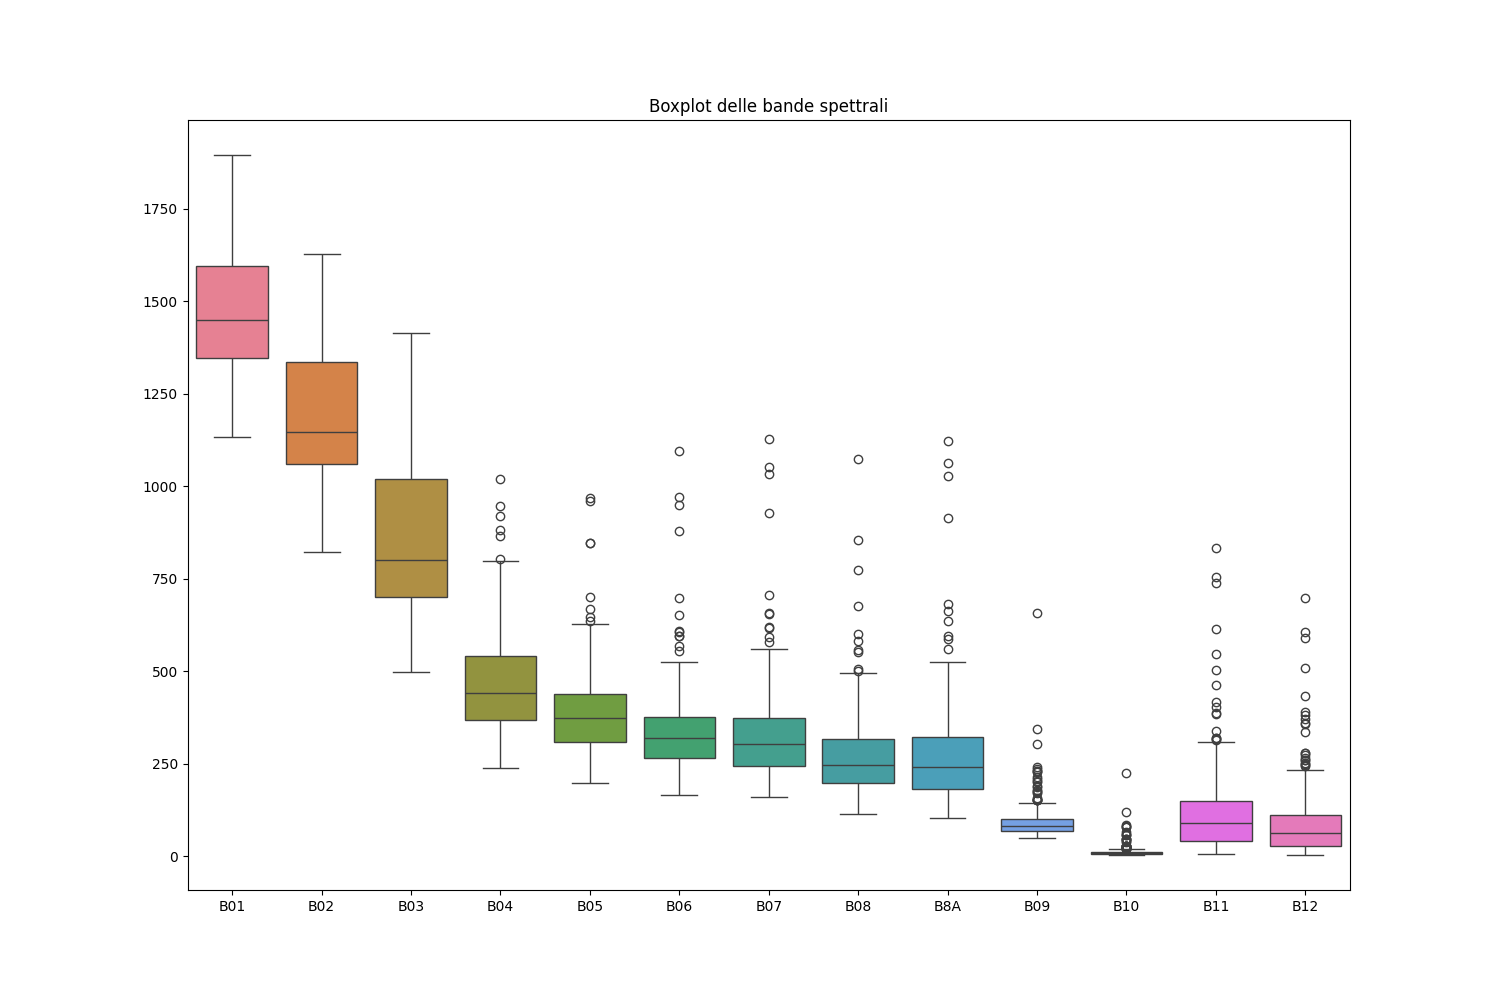
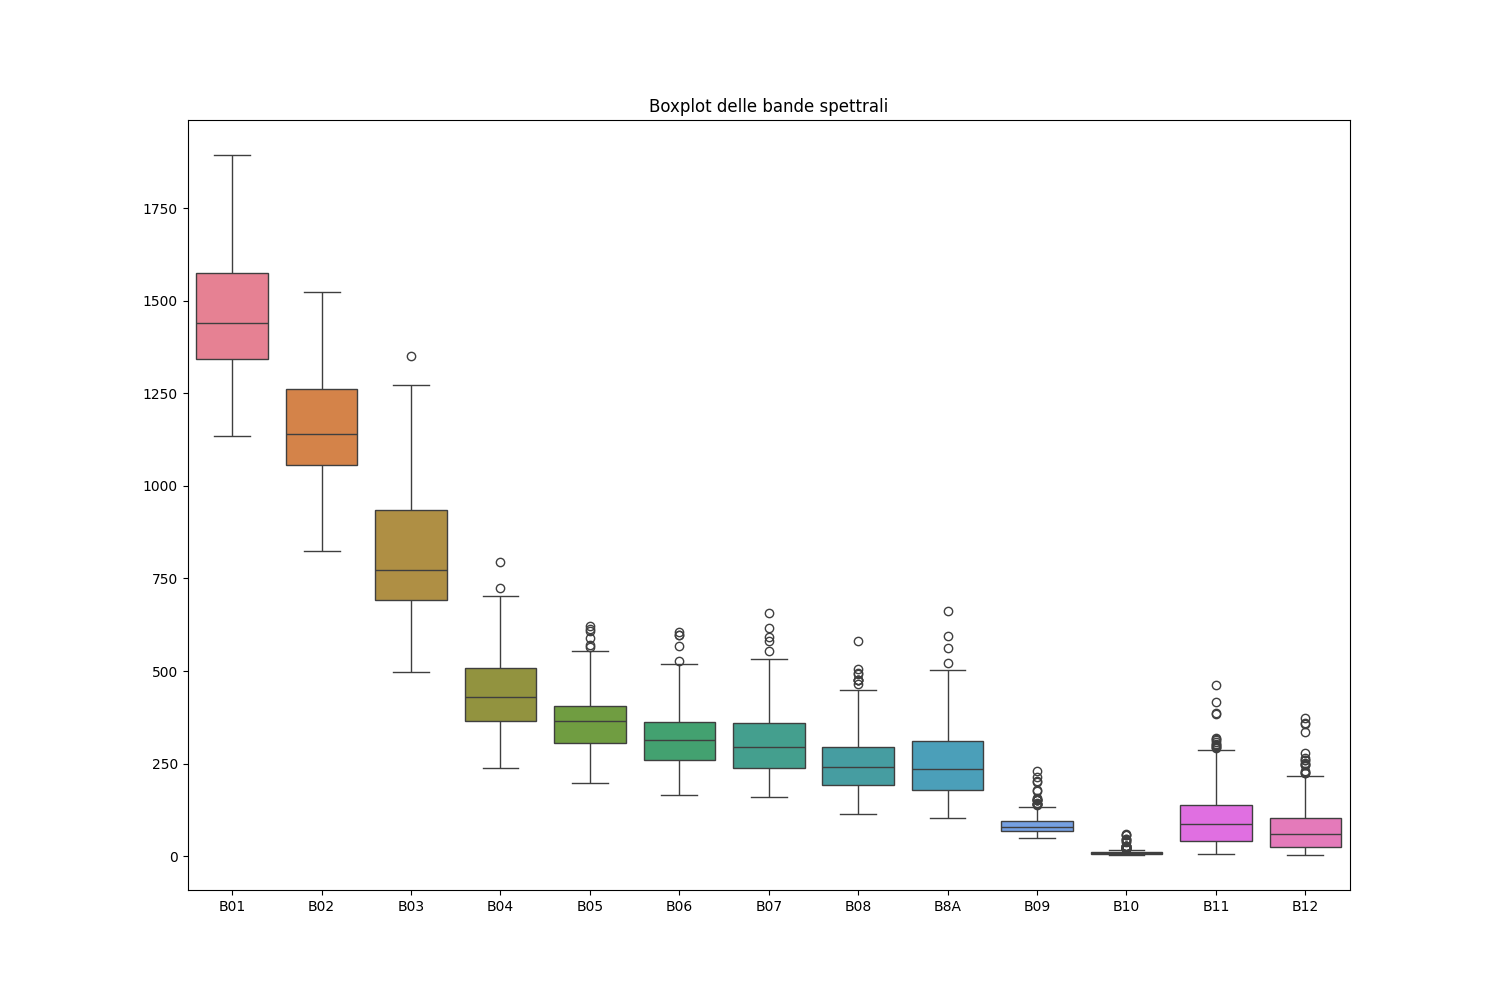
.

diff --git a/indiano.py b/indiano.py
@@ -8,7 +8,7 @@ from keras.models import Sequential
 from keras.layers import Dense
 from sklearn.model_selection import train_test_split
 from sklearn.preprocessing import StandardScaler
-from sklearn.metrics import mean_squared_error, mean_absolute_error
+from sklearn.metrics import mean_squared_error, mean_absolute_error, r2_score
 from sklearn.linear_model import LinearRegression
 from sklearn.tree import DecisionTreeRegressor
 from sklearn.ensemble import RandomForestRegressor
@@ -32,28 +32,47 @@ else:
 df = read_csv("dati.csv", delimiter=';')
 
 # Nomina delle colonne
-feature_names = ['Turbidity', 'B01', 'B02', 'B03', 'B04', 'B05', 'B06', 'B07', 
+feature_names = ['Turbidity', 'B01', 'B02', 'B03', 'B04', 'B05', 'B06', 'B07',
                  'B08', 'B8A', 'B09', 'B10', 'B11', 'B12', 'Cloud']
 df.columns = feature_names
 
 # Filtra i dati basati sulla copertura nuvolosa
 df = df[df['Cloud'] < 0.2]  # Soglia per la copertura nuvolosa
 
+# Rilevazione degli outlier con Z-score
+def detect_outliers_zscore(df, feature, threshold=2.58):
+    z_scores = (df[feature] - df[feature].mean()) / df[feature].std()
+    outliers = df[np.abs(z_scores) > threshold]
+    return outliers
+
+outliers = []
+for feature in df.columns:
+    if feature != 'Cloud':
+        feature_outliers = detect_outliers_zscore(df, feature)
+        outliers.append(feature_outliers)
+
+# Rimozione degli outlier
+outlier_indices = set()
+for outlier_group in outliers:
+    outlier_indices.update(outlier_group.index)
+
+df_no_outliers = df.drop(outlier_indices)
+
 # Analisi esplorativa dei dati
-sns.pairplot(df, diag_kind='kde')
+sns.pairplot(df_no_outliers, diag_kind='kde')
 plt.savefig('img-indiano/pairplot.png')
 plt.close()
 
 # Analisi della distribuzione dei valori nelle bande e ricerca di outliers
 plt.figure(figsize=(15, 10))
-sns.boxplot(data=df.iloc[:, 1:-1])
+sns.boxplot(data=df_no_outliers.iloc[:, 1:-1])
 plt.title('Boxplot delle bande spettrali')
 plt.savefig('img-indiano/boxplot_bande_spettrali.png')
 plt.close()
 
 # Separazione in caratteristiche e target
-X = df.drop(['Turbidity', 'Cloud'], axis=1)
-y = df['Turbidity']
+X = df_no_outliers.drop(['Turbidity', 'Cloud'], axis=1)
+y = df_no_outliers['Turbidity']
 
 # Divisione dei dati in training e test set
 X_train, X_test, y_train, y_test = train_test_split(X, y, test_size=0.2, random_state=20)
@@ -67,15 +86,15 @@ X_test_scaled = scaler.transform(X_test)
 
 # Definizione del modello di rete neurale
 model = Sequential()
-model.add(Dense(128, input_dim=X_train.shape[1], activation='relu'))
-model.add(Dense(64, activation='relu'))
+model.add(Dense(64, input_dim=X_train.shape[1], activation='relu'))
+model.add(Dense(32, activation='relu'))
 model.add(Dense(1, activation='linear'))
 
 model.compile(loss='mean_squared_error', optimizer='adam', metrics=['mae'])
 model.summary()
 
 # Addestramento del modello
-history = model.fit(X_train_scaled, y_train, validation_split=0.2, epochs=100)
+history = model.fit(X_train_scaled, y_train, validation_split=0.2, epochs=50)
 
 # Visualizzazione delle perdite di addestramento e validazione
 loss = history.history['loss']
@@ -125,8 +144,10 @@ plt.close()
 
 # Valutazione del modello di rete neurale
 mse_neural, mae_neural = model.evaluate(X_test_scaled, y_test)
+r2_neural = r2_score(y_test, model.predict(X_test_scaled))
 print('Mean squared error from neural net: ', mse_neural)
 print('Mean absolute error from neural net: ', mae_neural)
+print('R2 score from neural net: ', r2_neural)
 
 # Confronto con altri modelli
 
@@ -136,8 +157,10 @@ lr_model.fit(X_train_scaled, y_train)
 y_pred_lr = lr_model.predict(X_test_scaled)
 mse_lr = mean_squared_error(y_test, y_pred_lr)
 mae_lr = mean_absolute_error(y_test, y_pred_lr)
+r2_lr = r2_score(y_test, y_pred_lr)
 print('Mean squared error from linear regression: ', mse_lr)
 print('Mean absolute error from linear regression: ', mae_lr)
+print('R2 score from linear regression: ', r2_lr)
 
 # Decision Tree
 tree = DecisionTreeRegressor()
@@ -145,8 +168,10 @@ tree.fit(X_train_scaled, y_train)
 y_pred_tree = tree.predict(X_test_scaled)
 mse_dt = mean_squared_error(y_test, y_pred_tree)
 mae_dt = mean_absolute_error(y_test, y_pred_tree)
+r2_dt = r2_score(y_test, y_pred_tree)
 print('Mean squared error using decision tree: ', mse_dt)
 print('Mean absolute error using decision tree: ', mae_dt)
+print('R2 score using decision tree: ', r2_dt)
 
 # Random Forest
 rf_model = RandomForestRegressor(n_estimators=30, random_state=30)
@@ -154,40 +179,45 @@ rf_model.fit(X_train_scaled, y_train)
 y_pred_rf = rf_model.predict(X_test_scaled)
 mse_rf = mean_squared_error(y_test, y_pred_rf)
 mae_rf = mean_absolute_error(y_test, y_pred_rf)
+r2_rf = r2_score(y_test, y_pred_rf)
 print('Mean squared error using Random Forest: ', mse_rf)
 print('Mean absolute error Using Random Forest: ', mae_rf)
+print('R2 score Using Random Forest: ', r2_rf)
 
 # Importanza delle caratteristiche con Regressione Lineare
 feature_list = list(X.columns)
 coef = lr_model.coef_
-feature_imp_lr = pd.Series(coef, index=feature_list).sort_values(ascending=False)
+coef_abs = np.abs(coef)  # Calcola il valore assoluto dei coefficienti
+feature_imp_lr = pd.Series(coef_abs, index=feature_list).sort_values(ascending=False)  # Ordina in base al valore assoluto
 print(feature_imp_lr)
 
 # Visualizzazione dell'importanza delle caratteristiche con Regressione Lineare
 feature_imp_lr.plot(kind='bar')
-plt.title('Feature Importance with Linear Regression')
-plt.savefig('img-indiano/feature_importance_lr.png')
+plt.title('Feature Importance with Linear Regression (Absolute Values)')
+plt.savefig('img-indiano/feature_importance_lr_abs.png')
 plt.close()
 
 # Modelli semplici con singole bande spettrali
 for band in feature_names[1:-1]:  # Escludiamo 'Turbidity' e 'Cloud'
-    X_single_band = df[[band]]
+    X_single_band = df_no_outliers[[band]]
     X_train_sb, X_test_sb, y_train_sb, y_test_sb = train_test_split(X_single_band, y, test_size=0.2, random_state=20)
     scaler_sb = StandardScaler()
     X_train_sb_scaled = scaler_sb.fit_transform(X_train_sb)
     X_test_sb_scaled = scaler_sb.transform(X_test_sb)
-    
+
     lr_model_sb = LinearRegression()
     lr_model_sb.fit(X_train_sb_scaled, y_train_sb)
     y_pred_lr_sb = lr_model_sb.predict(X_test_sb_scaled)
     mse_lr_sb = mean_squared_error(y_test_sb, y_pred_lr_sb)
     mae_lr_sb = mean_absolute_error(y_test_sb, y_pred_lr_sb)
+    r2_lr_sb = r2_score(y_test_sb, y_pred_lr_sb)
     print(f'Mean squared error from linear regression using {band}: ', mse_lr_sb)
     print(f'Mean absolute error from linear regression using {band}: ', mae_lr_sb)
+    print(f'R2 score from linear regression using {band}: ', r2_lr_sb)
 
 # Selezione delle bande spettrali più importanti
 top_bands = feature_imp_lr.index[:5]  # Selezioniamo le prime 5 bande più importanti
-X_top_bands = df[top_bands]
+X_top_bands = df_no_outliers[top_bands]
 X_train_tb, X_test_tb, y_train_tb, y_test_tb = train_test_split(X_top_bands, y, test_size=0.2, random_state=20)
 
 scaler_tb = StandardScaler()
@@ -196,15 +226,17 @@ X_test_tb_scaled = scaler_tb.transform(X_test_tb)
 
 # Modello di rete neurale con bande spettrali selezionate
 model_top_bands = Sequential()
-model_top_bands.add(Dense(128, input_dim=X_train_tb.shape[1], activation='relu'))
-model_top_bands.add(Dense(64, activation='relu'))
+model_top_bands.add(Dense(64, input_dim=X_train_tb.shape[1], activation='relu'))
+model_top_bands.add(Dense(32, activation='relu'))
 model_top_bands.add(Dense(1, activation='linear'))
 
 model_top_bands.compile(loss='mean_squared_error', optimizer='adam', metrics=['mae'])
 model_top_bands.summary()
 
-history_top_bands = model_top_bands.fit(X_train_tb_scaled, y_train_tb, validation_split=0.2, epochs=100)
+history_top_bands = model_top_bands.fit(X_train_tb_scaled, y_train_tb, validation_split=0.2, epochs=50)
 
 mse_neural_tb, mae_neural_tb = model_top_bands.evaluate(X_test_tb_scaled, y_test_tb)
+r2_neural_tb = r2_score(y_test_tb, model_top_bands.predict(X_test_tb_scaled))
 print('Mean squared error from neural net with top bands: ', mse_neural_tb)
 print('Mean absolute error from neural net with top bands: ', mae_neural_tb)
+print('R2 score from neural net with top bands: ', r2_neural_tb)
